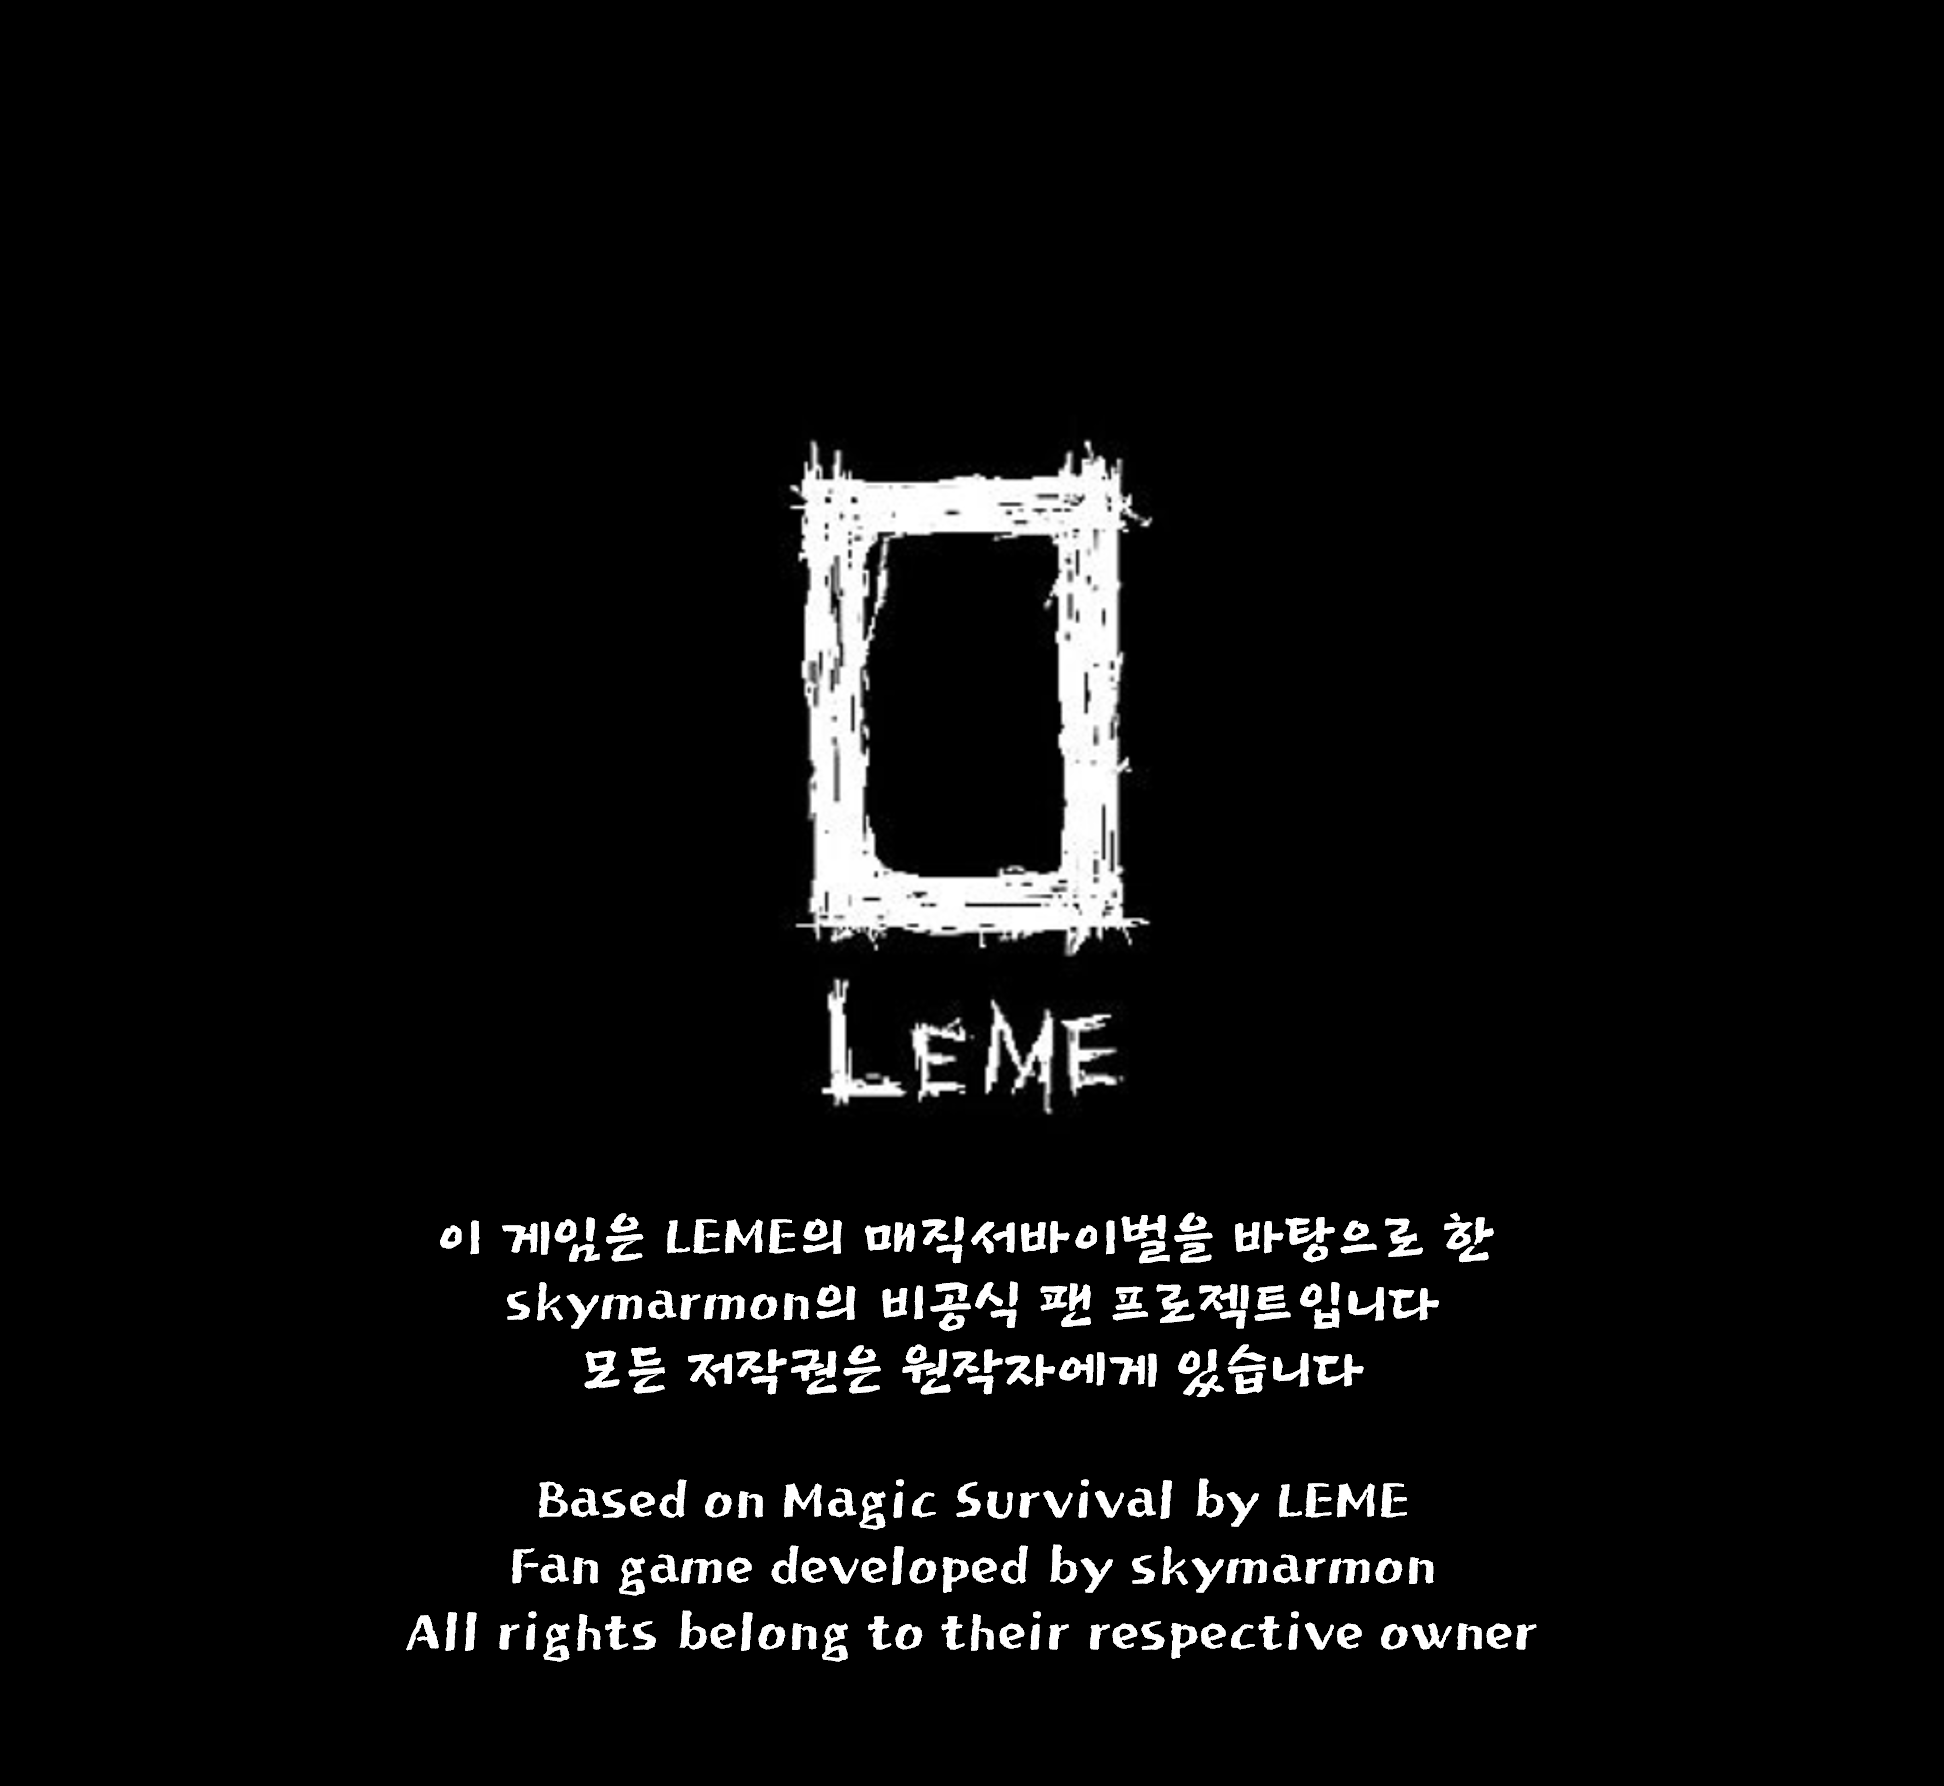
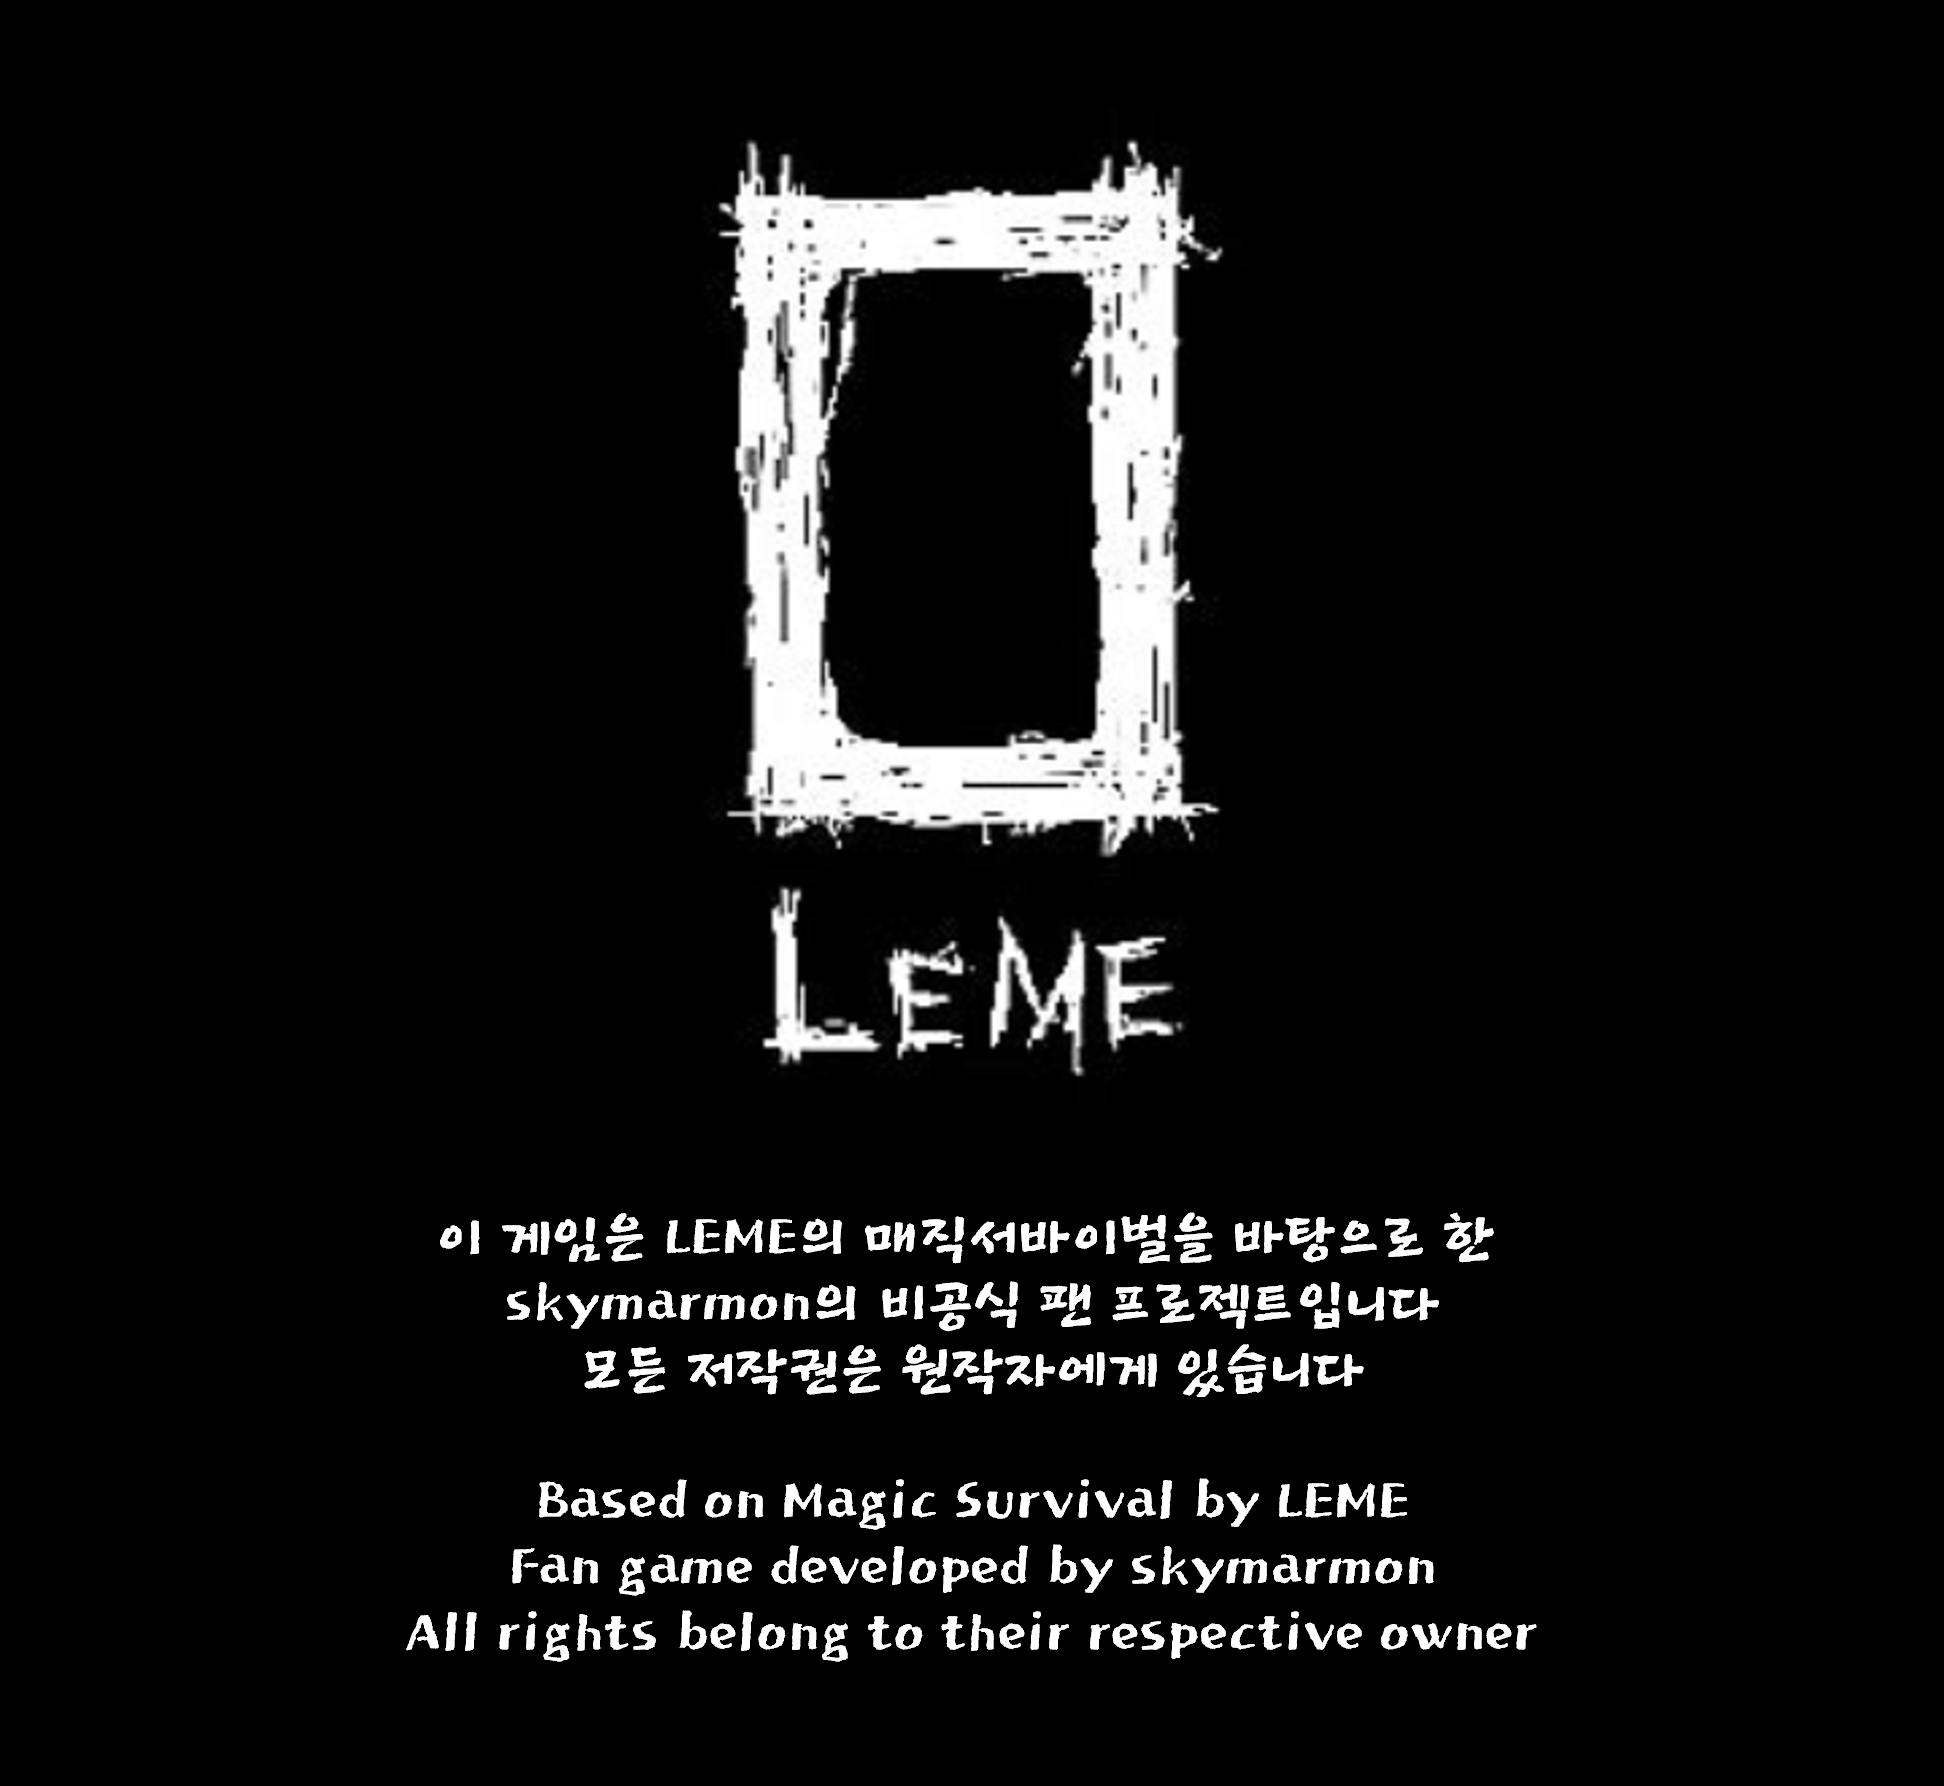
mm

Changed region(s): [[0.3704, 0.0616, 0.6173, 0.6159]]

diff --git a/scenes/Lobby.js b/scenes/Lobby.js
@@ -2,7 +2,26 @@ export default class Lobby extends Phaser.Scene {
     constructor() {
         super('Lobby');
     }
+
     create() {
-        this.add.text(400, 300, 'Lobby Scene', { fontSize: '32px', color: '#fff' }).setOrigin(0.5);
+        const image = this.add.image(window.innerWidth / 2, window.innerHeight / 2, 'main').setAlpha(0);
+
+        // 이미지 원본 크기
+        const iw = this.textures.get('main').getSourceImage().width;
+        const ih = this.textures.get('main').getSourceImage().height;
+
+        // 화면 비율 기준으로 축소 비율 계산
+        const scaleX = window.innerWidth / iw;
+        const scaleY = window.innerHeight / ih;
+        const scale = Math.min(scaleX, scaleY);
+        image.setScale(scale);
+
+        // 페이드인 트윈
+        this.tweens.add({
+            targets: image,
+            alpha: 1,
+            duration: 1000,
+            ease: 'Linear',
+        });
     }
 }

diff --git a/scenes/Images.js b/scenes/Images.js
@@ -5,6 +5,7 @@ export default class Images extends Phaser.Scene {
 
     preload() {
         this.load.image('credit', 'assets/images/credit.png');
+        this.load.image('main', 'assets/images/main.png');
     }
 
     create() {
